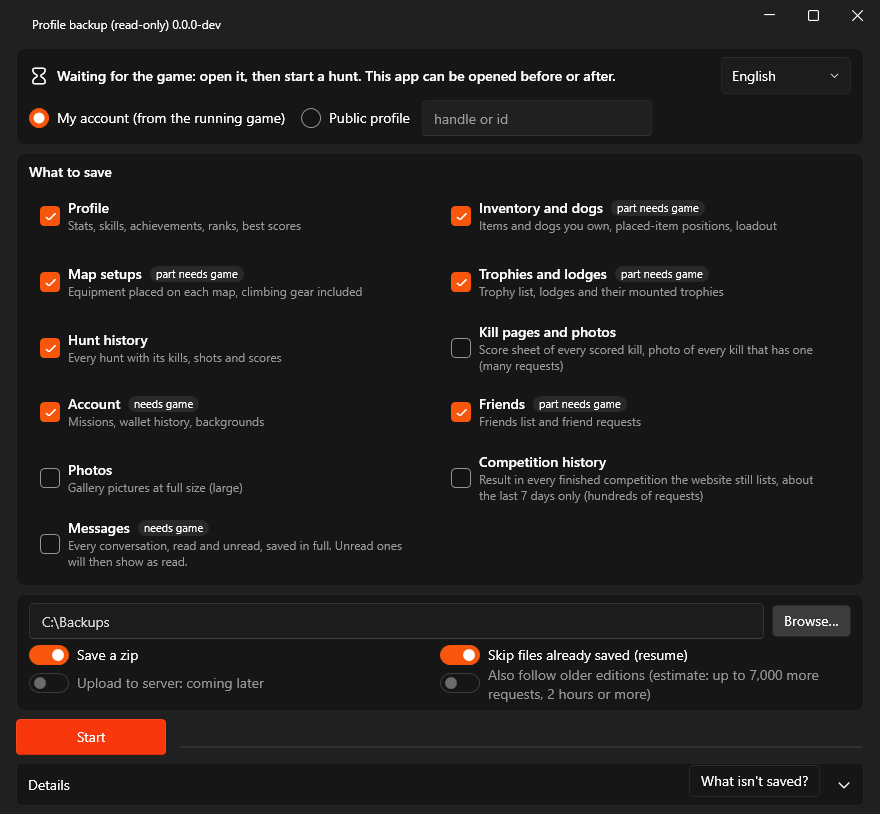
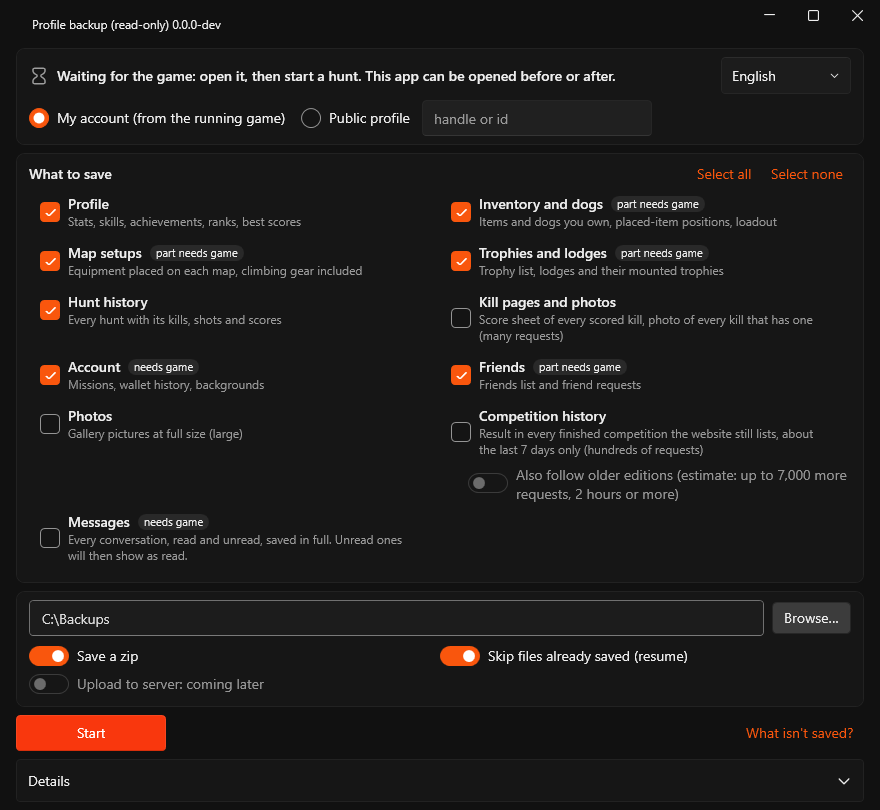
feat(backup): select all/none, aligned group rows, small-screen layout
- Select all / Select none beside "What to save" (enabled rows only).
- Group rows in an aligned two-column grid; disabled rows dim and show
  why; the older-editions switch sits under Competition history.
- The log takes the space left in a short window, the group list keeps
  a minimum height and scrolls; the window never exceeds the work area.
- Status banner shows the run state with a coloured icon; progress bar
  hidden until a run; full bar after any run that finished.
- One Tab stop for the source radios, Enter starts (never cancels),
  taller toggles, named title-bar buttons; PerMonitorV2 manifest.
- Docs and screenshot updated.

diff --git a/tools/backup/MainWindow.xaml b/tools/backup/MainWindow.xaml
@@ -35,7 +35,7 @@
 
         <Grid x:Name="Body" Grid.Row="1" Margin="16,0,16,8">
             <Grid.RowDefinitions>
-                <RowDefinition Height="*" MinHeight="420" /> <!-- status card, two group rows and the folder card: the list scrolls below that, it never collapses -->
+                <RowDefinition Height="*" MinHeight="320" /> <!-- status card, about one group row and the folder card: the list scrolls below that, it never collapses -->
                 <RowDefinition Height="Auto" />
                 <RowDefinition Height="Auto" />
                 <RowDefinition Height="Auto" />
@@ -59,11 +59,14 @@
                             </Grid.ColumnDefinitions>
                             <ui:SymbolIcon x:Name="StatusIcon" FontSize="20" Margin="0,0,8,0" VerticalAlignment="Center" />
                             <TextBlock x:Name="StatusText" Grid.Column="1" FontWeight="SemiBold" VerticalAlignment="Center" TextWrapping="Wrap" AutomationProperties.LiveSetting="Polite" />
-                            <ComboBox x:Name="LangBox" Grid.Column="2" MinWidth="130" Margin="12,0,0,0" VerticalAlignment="Top" />
+                            <ComboBox x:Name="LangBox" Grid.Column="2" MinWidth="130" Margin="12,0,0,0" VerticalAlignment="Center" />
                         </Grid>
                         <WrapPanel>
-                            <RadioButton x:Name="OwnRadio" GroupName="Source" IsChecked="True" MinWidth="0" Margin="0,0,16,0" />
-                            <RadioButton x:Name="PublicRadio" GroupName="Source" MinWidth="0" />
+                            <!-- one Tab stop for the pair; the arrow keys move and select -->
+                            <StackPanel Orientation="Horizontal" KeyboardNavigation.TabNavigation="Once" KeyboardNavigation.DirectionalNavigation="Cycle">
+                                <RadioButton x:Name="OwnRadio" GroupName="Source" IsChecked="True" MinWidth="0" Margin="0,0,16,0" />
+                                <RadioButton x:Name="PublicRadio" GroupName="Source" MinWidth="0" />
+                            </StackPanel>
                             <ui:TextBox x:Name="Who" Width="230" Margin="12,0,0,0" IsEnabled="False" />
                         </WrapPanel>
                     </StackPanel>
@@ -75,9 +78,27 @@
                             <RowDefinition Height="Auto" />
                             <RowDefinition Height="*" />
                         </Grid.RowDefinitions>
-                        <TextBlock x:Name="GroupsTitle" FontWeight="SemiBold" Margin="0,0,0,4" />
+                        <Grid Margin="0,0,0,4">
+                            <Grid.ColumnDefinitions>
+                                <ColumnDefinition Width="*" />
+                                <ColumnDefinition Width="Auto" />
+                                <ColumnDefinition Width="Auto" />
+                            </Grid.ColumnDefinitions>
+                            <TextBlock x:Name="GroupsTitle" FontWeight="SemiBold" VerticalAlignment="Center" />
+                            <ui:HyperlinkButton x:Name="SelectAll" Grid.Column="1" Padding="8,2" />
+                            <ui:HyperlinkButton x:Name="SelectNone" Grid.Column="2" Margin="4,0,0,0" Padding="8,2" />
+                        </Grid>
                         <ScrollViewer Grid.Row="1" VerticalScrollBarVisibility="Auto">
-                            <UniformGrid x:Name="Groups" Columns="2" />
+                            <Grid x:Name="Groups">
+                                <Grid.ColumnDefinitions>
+                                    <ColumnDefinition Width="*" />
+                                    <ColumnDefinition Width="*" />
+                                </Grid.ColumnDefinitions>
+                                <!-- the history row's cell: BuildRows puts the checkbox above this switch, which only means something while that group is ticked -->
+                                <StackPanel x:Name="HistoryCell">
+                                    <ui:ToggleSwitch x:Name="Older" Margin="28,0,0,4" MinHeight="28" IsChecked="False" IsEnabled="False" />
+                                </StackPanel>
+                            </Grid>
                         </ScrollViewer>
                     </Grid>
                 </Border>
@@ -101,10 +122,9 @@
                             <ui:TextBox x:Name="OutDir" />
                             <ui:Button x:Name="Browse" Grid.Column="1" Margin="8,0,0,0" />
                         </Grid>
-                        <ui:ToggleSwitch x:Name="Zip" Grid.Row="1" IsChecked="True" />
-                        <ui:ToggleSwitch x:Name="Skip" Grid.Row="1" Grid.Column="1" IsChecked="True" />
-                        <ui:ToggleSwitch x:Name="Upload" Grid.Row="2" IsEnabled="False" />
-                        <ui:ToggleSwitch x:Name="Older" Grid.Row="2" Grid.Column="1" IsChecked="False" IsEnabled="False" />
+                        <ui:ToggleSwitch x:Name="Zip" Grid.Row="1" IsChecked="True" MinHeight="28" />
+                        <ui:ToggleSwitch x:Name="Skip" Grid.Row="1" Grid.Column="1" IsChecked="True" MinHeight="28" />
+                        <ui:ToggleSwitch x:Name="Upload" Grid.Row="2" IsEnabled="False" MinHeight="28" />
                     </Grid>
                 </Border>
             </Grid>
@@ -113,12 +133,14 @@
                 <Grid.ColumnDefinitions>
                     <ColumnDefinition Width="Auto" />
                     <ColumnDefinition Width="*" />
+                    <ColumnDefinition Width="Auto" />
                 </Grid.ColumnDefinitions>
-                <ui:Button x:Name="Start" Appearance="Primary" Width="150" Height="36" HorizontalContentAlignment="Center" FocusVisualStyle="{StaticResource StartFocus}" />
-                <StackPanel Grid.Column="1" Margin="12,0,0,0" VerticalAlignment="Center">
-                    <TextBlock x:Name="ProgressText" FontSize="12" Margin="0,0,0,4" Foreground="{DynamicResource TextFillColorSecondaryBrush}" AutomationProperties.LiveSetting="Polite" />
-                    <ProgressBar x:Name="Bar" Minimum="0" Maximum="1" Value="0" Height="4" />
+                <ui:Button x:Name="Start" Appearance="Primary" Width="150" Height="36" HorizontalContentAlignment="Center" IsDefault="True" FocusVisualStyle="{StaticResource StartFocus}" />
+                <StackPanel Grid.Column="1" Margin="12,0,12,0" VerticalAlignment="Center">
+                    <TextBlock x:Name="ProgressText" Margin="0,0,0,4" Foreground="{DynamicResource TextFillColorSecondaryBrush}" AutomationProperties.LiveSetting="Polite" />
+                    <ProgressBar x:Name="Bar" Minimum="0" Maximum="1" Value="0" Height="4" Visibility="Hidden" />
                 </StackPanel>
+                <ui:HyperlinkButton x:Name="NotCoveredLink" Grid.Column="2" VerticalAlignment="Center" />
             </Grid>
 
             <Grid Grid.Row="2">
@@ -135,7 +157,6 @@
                     <TextBox x:Name="LogBox" Height="155" IsReadOnly="True" AcceptsReturn="True" TextWrapping="NoWrap" FontFamily="Consolas" FontSize="12"
                              VerticalScrollBarVisibility="Auto" HorizontalScrollBarVisibility="Auto" VerticalContentAlignment="Top" />
                 </Expander>
-                <ui:Button x:Name="NotCoveredLink" Appearance="Transparent" HorizontalAlignment="Right" VerticalAlignment="Top" Margin="0,2,44,0" />
             </Grid>
         </Grid>
     </Grid>

diff --git a/tools/backup/MainWindow.xaml.cs b/tools/backup/MainWindow.xaml.cs
@@ -29,7 +29,6 @@ public partial class MainWindow : FluentWindow
     string lastStatus = "", resultPath = "";
     Func<(string Title, string Msg)>? resultText; // so the result bar can be worded again when the language changes
     bool logDirty;
-    double grownBy;
     volatile int doneNow, totalNow;
     readonly Queue<(double Secs, int Done)> pace = new(); // progress samples of the last minute and a half: the remaining time follows the pace now, not the average since the start
 
@@ -38,6 +37,8 @@ public partial class MainWindow : FluentWindow
         langPath = Path.Combine(Path.GetDirectoryName(keyPath)!, "language.txt");
         Loc.Init(langPath);
         InitializeComponent();
+        var area = SystemParameters.WorkArea; // a small screen or a high scale factor: the window never asks for more than the work area
+        (MinWidth, MinHeight, Width, Height) = (Math.Min(MinWidth, area.Width), Math.Min(MinHeight, area.Height), Math.Min(Width, area.Width), Math.Min(Height, area.Height));
         OutDir.Text = Path.Combine(Environment.GetFolderPath(Environment.SpecialFolder.MyDocuments), "game-backup");
         remembered = [.. Engine.Groups.Select(g => g.On)];
         try { cfg = Settings.Load(); watcher = new(cfg.ClientExe); }
@@ -54,6 +55,7 @@ public partial class MainWindow : FluentWindow
             ApplyLanguage();
             FitHeight();
         };
+        foreach (var r in new[] { OwnRadio, PublicRadio }) r.GotKeyboardFocus += (s, _) => ((RadioButton)s).IsChecked = true; // arrow keys move and select; Tab reaches only the checked one
         OwnRadio.Checked += (_, _) => ApplyMode();
         PublicRadio.Checked += (_, _) => ApplyMode();
         Browse.Click += (_, _) =>
@@ -64,27 +66,63 @@ public partial class MainWindow : FluentWindow
         Start.Click += OnStart;
         OpenBtn.Click += (_, _) => OpenResult();
         NotCoveredLink.Click += async (_, _) => await ShowNotCovered();
-        Details.Expanded += (_, _) => { GrowFor(true); RenderLog(); };
-        Details.Collapsed += (_, _) => GrowFor(false);
+        SelectAll.Click += (_, _) => SelectGroups(true);
+        SelectNone.Click += (_, _) => SelectGroups(false);
+        Details.Expanded += (_, _) => { RenderLog(); Dispatcher.BeginInvoke(FitHeight, DispatcherPriority.Background); }; // the Expander shows or hides its content after the event
+        Details.SizeChanged += (_, e) => { if (IsLoaded && !Details.IsExpanded && e.HeightChanged) Dispatcher.BeginInvoke(FitHeight, DispatcherPriority.Background); }; // it hides the log after the Collapsed event, when its height drops
+        LayoutUpdated += (_, _) => FitLog();
+        StateChanged += (_, _) => NameTitleButtons();
         watchTimer.Tick += (_, _) => Tick();
         runTimer.Tick += (_, _) => { FlushLog(); ShowProgress(); };
         watchTimer.Start();
         ApplyLanguage();
         ApplyMode();
         ContentRendered += (_, _) => SetResourceReference(BackgroundProperty, "ApplicationBackgroundBrush"); // FluentWindow resets it to its own dark grey when it applies the backdrop
-        Loaded += (_, _) => FitHeight();
+        Loaded += (_, _) => { NameTitleButtons(); FitHeight(); };
         Closed += (_, _) => { watchTimer.Stop(); runTimer.Stop(); cts?.Cancel(); };
     }
 
-    /// <summary>Longer languages need taller cards, and a result bar takes room too: the window is as tall as its content (never taller than the screen). The log, when open, keeps the room GrowFor gave it.</summary>
+    /// <summary>Longer languages need taller cards, and a result bar and the open log take room too: the window is as tall as its content (never taller than the screen). The log asks for its full height here; FitLog takes back what a small screen cannot give.</summary>
     void FitHeight()
     {
         UpdateLayout(); // settle pending changes first: the manual Measure below left them half-measured (Start kept the width of "Cancelling…" and its label sat off-centre)
         var chrome = ActualHeight - Body.ActualHeight;
+        LogBox.Height = LogHeight;
         Body.Measure(new Size(Body.ActualWidth, double.PositiveInfinity));
         var area = SystemParameters.WorkArea;
-        Height = Math.Min(Math.Max(MinHeight, chrome + Body.DesiredSize.Height + grownBy), area.Height);
+        Height = Math.Min(Math.Max(MinHeight, chrome + Body.DesiredSize.Height), area.Height);
         Top = Math.Max(area.Top, Math.Min(Top, area.Bottom - Height));
+    }
+
+    const double LogHeight = 155, LogMin = 66; // the log is 155 tall when there is room, three lines at least
+
+    /// <summary>The log is the one thing that gives way when the window is short: it takes what is left below the cards, never less than three lines, and never more than LogHeight. The group list only scrolls.</summary>
+    void FitLog()
+    {
+        if (!Details.IsExpanded || Details.ActualHeight == 0) return;
+        var rows = Body.RowDefinitions;
+        // the window's row, not Body: an arranged Body never gets smaller than its content
+        var room = ((Grid)Body.Parent).RowDefinitions[1].ActualHeight - Body.Margin.Top - Body.Margin.Bottom - rows[0].MinHeight - rows[1].ActualHeight - rows[2].ActualHeight - rows[3].ActualHeight - (rows[4].ActualHeight - LogBox.ActualHeight);
+        var want = Math.Clamp(Math.Floor(room), LogMin, LogHeight);
+        if (Math.Abs(LogBox.Height - want) >= 1) LogBox.Height = want;
+    }
+
+    /// <summary>Only changes enabled rows: in Public mode the token-only groups stay off. The older-editions switch follows through SyncOlder.</summary>
+    void SelectGroups(bool on)
+    {
+        foreach (var b in boxes!) if (b.IsEnabled) b.IsChecked = on;
+    }
+
+    /// <summary>The title bar's own buttons have no names for a screen reader; they come from the resources, so they follow the language (and Maximize turns into Restore).</summary>
+    void NameTitleButtons()
+    {
+        foreach (var b in Descendants<TitleBarButton>(TitleBarMain))
+            Named(b, b.ButtonType switch
+            {
+                TitleBarButtonType.Minimize => "Win_Minimize",
+                TitleBarButtonType.Close => "Win_Close",
+                _ => WindowState == WindowState.Maximized ? "Win_Restore" : "Win_Maximize",
+            });
     }
 
     // ---------- language ----------
@@ -115,6 +153,9 @@ public partial class MainWindow : FluentWindow
         Details.Header = Loc.S("Details");
         Named(LogBox, "Log_Name");
         NotCoveredLink.Content = Loc.S("NotCovered_Link");
+        SelectAll.Content = Loc.S("Groups_All");
+        SelectNone.Content = Loc.S("Groups_None");
+        NameTitleButtons();
         BuildRows();
         if (cfg == null) // the settings error is worded in the language too
             try { Settings.Load(); } catch (Exception e) when (e is InvalidOperationException or IOException or System.Text.Json.JsonException) { cfgError = e.Message; }
@@ -135,11 +176,18 @@ public partial class MainWindow : FluentWindow
         var old = boxes;
         boxes = [.. Engine.Groups.Select(Row)];
         Groups.Children.Clear();
+        Groups.RowDefinitions.Clear();
+        HistoryCell.Children.Clear();
         for (int i = 0; i < boxes.Length; i++)
         {
             if (old != null) (boxes[i].IsChecked, boxes[i].IsEnabled) = (old[i].IsChecked, old[i].IsEnabled);
             Describe(i);
-            Groups.Children.Add(boxes[i]);
+            UIElement cell = boxes[i];
+            if (i == HistoryAt) { HistoryCell.Children.Add(boxes[i]); HistoryCell.Children.Add(Older); cell = HistoryCell; } // the older-editions switch sits right under the group it depends on
+            if (i % 2 == 0) Groups.RowDefinitions.Add(new RowDefinition { Height = GridLength.Auto }); // row pairs: both cells start at the same top
+            Grid.SetRow(cell, i / 2);
+            Grid.SetColumn(cell, i % 2);
+            Groups.Children.Add(cell);
         }
         boxes[HistoryAt].Checked += (_, _) => SyncOlder(); // not Click: a keyboard, screen-reader or code change of the tick counts too
         boxes[HistoryAt].Unchecked += (_, _) => SyncOlder();
@@ -177,7 +225,10 @@ public partial class MainWindow : FluentWindow
         var desc = new TextBlock { Text = descText, FontSize = 12, TextWrapping = TextWrapping.Wrap };
         desc.SetResourceReference(TextBlock.ForegroundProperty, "TextFillColorSecondaryBrush");
         text.Children.Add(desc);
-        var box = new QuietCheckBox { Content = text, IsChecked = g.On, MinWidth = 0, Margin = new Thickness(0, 0, 8, 2) };
+        var note = new TextBlock { FontSize = 12, FontStyle = FontStyles.Italic, TextWrapping = TextWrapping.Wrap, Margin = new Thickness(0, 2, 0, 0), Visibility = Visibility.Collapsed }; // why the row is off, filled by Describe
+        note.SetResourceReference(TextBlock.ForegroundProperty, "TextFillColorSecondaryBrush");
+        text.Children.Add(note);
+        var box = new QuietCheckBox { Content = text, IsChecked = g.On, MinWidth = 0, VerticalAlignment = VerticalAlignment.Top, Margin = new Thickness(0, 0, 8, 2) };
         System.Windows.Automation.AutomationProperties.SetName(box, tagText.Length > 0 ? $"{label}, {tagText}" : label);
         ToolTipService.SetShowOnDisabled(box, true);
         return box;
@@ -195,12 +246,16 @@ public partial class MainWindow : FluentWindow
         }
     }
 
-    /// <summary>Tooltip and screen-reader help of row i: the description, and why the row is off in Public mode.</summary>
+    /// <summary>Tooltip, visible note and screen-reader help of row i: the description, and why the row is off in Public mode (the row's own texts dim, the note stays readable).</summary>
     void Describe(int i)
     {
         var box = boxes![i];
+        var text = (StackPanel)box.Content;
         var why = box.IsEnabled ? null : Loc.S("Tip_Public");
         box.ToolTip = why;
+        text.Children[0].Opacity = text.Children[1].Opacity = why == null ? 1 : 0.5;
+        var note = (TextBlock)text.Children[2];
+        (note.Text, note.Visibility) = (why ?? "", why == null ? Visibility.Collapsed : Visibility.Visible);
         System.Windows.Automation.AutomationProperties.SetHelpText(box, why == null ? Loc.S("GroupDesc_" + Engine.Groups[i].Key) : $"{Loc.S("GroupDesc_" + Engine.Groups[i].Key)}. {why}");
     }
 
@@ -227,28 +282,29 @@ public partial class MainWindow : FluentWindow
             boxes[i].IsChecked = own ? remembered[i] : false;
             Describe(i);
         }
+        if (IsLoaded) FitHeight(); // the notes of the disabled rows change their height
     }
 
     // ---------- watcher ----------
 
     void Tick()
     {
-        string text; SymbolRegular icon;
-        if (watcher == null) (text, icon) = (cfgError, SymbolRegular.ErrorCircle24);
+        string text, tone = "SystemFillColorSolidNeutralBrush"; SymbolRegular icon; // icon and words say the state; the colour only backs them up
+        if (watcher == null) (text, icon, tone) = (cfgError, SymbolRegular.ErrorCircle24, "SystemFillColorCriticalBrush");
         else
         {
             if (watcher.Scan()) Log($"game session found {watcher.At:HH:mm:ss}"); // also in public mode: it is ready when My account is chosen
-            if (PublicRadio.IsChecked == true) (text, icon) = (Loc.S("Status_Public"), SymbolRegular.Person24);
-            else
-                (text, icon) = watcher.Token == null
-                    ? (Loc.S(watcher.GameSeen ? "Status_NoHunt" : "Status_Waiting"), SymbolRegular.Hourglass24)
-                    : watcher.Stale ? (Loc.S("Status_Stale"), SymbolRegular.Warning24)
-                    : (Loc.F("Status_Found", watcher.At.ToString("HH:mm")), SymbolRegular.CheckmarkCircle24);
+            if (cts != null) (text, icon) = (Loc.S("Status_Running"), SymbolRegular.ArrowSync24);
+            else if (PublicRadio.IsChecked == true) (text, icon) = (Loc.S("Status_Public"), SymbolRegular.Person24);
+            else if (watcher.Token == null) (text, icon) = (Loc.S(watcher.GameSeen ? "Status_NoHunt" : "Status_Waiting"), SymbolRegular.Hourglass24);
+            else if (watcher.Stale) (text, icon, tone) = (Loc.S("Status_Stale"), SymbolRegular.Warning24, "SystemFillColorCautionBrush");
+            else (text, icon, tone) = (Loc.F("Status_Found", watcher.At.ToString("HH:mm")), SymbolRegular.CheckmarkCircle24, "SystemFillColorSuccessBrush");
         }
         if (text == lastStatus) return; // nothing changed: no layout work
         lastStatus = text;
         Announce(StatusText, text);
         StatusIcon.Symbol = icon;
+        StatusIcon.SetResourceReference(Control.ForegroundProperty, tone);
     }
 
     // ---------- run ----------
@@ -266,11 +322,15 @@ public partial class MainWindow : FluentWindow
 
         cts = new();
         Start.Appearance = ControlAppearance.Secondary; // Cancel is not the primary action
+        Start.IsDefault = false; // Enter must never cancel a run
+        Bar.Visibility = Visibility.Visible;
         Result.IsOpen = false;
         OpenBtn.Visibility = Visibility.Collapsed;
         Inputs.IsEnabled = false;
         Start.Content = Loc.S("Cancel");
         Bar.IsIndeterminate = true;
+        lastStatus = "";
+        Tick();
         ProgressText.Text = Loc.S("Progress_Starting");
         (doneNow, totalNow) = (0, 0);
         pace.Clear();
@@ -283,6 +343,7 @@ public partial class MainWindow : FluentWindow
         bool resume = Skip.IsChecked == true, zip = Zip.IsChecked == true;
         var ct = cts.Token;
         InfoBarSeverity sev; Func<(string Title, string Msg)> text; string? path = null;
+        bool done = false; // the run came back whole (with or without gaps): full bar; cancelled, stopped or failed: empty
         try
         {
             path = await Task.Run(() => run.Run(outDir, who, own ? () => watcher!.Token : null, keys, resume, zip, ct));
@@ -298,6 +359,7 @@ public partial class MainWindow : FluentWindow
                 + (killsOff ? " " + Loc.S("Msg_KillsOff") : "")
                 + (opened > 0 ? " " + Loc.F("Msg_MessagesOpened", opened) : "")
                 + (setupItems is { } n ? " " + (setupCheck ? Loc.F("Msg_SetupsCheck", n, setupMaps) : n == 0 ? Loc.S("Msg_SetupsNone") : Loc.F("Msg_Setups", n, setupMaps)) : ""));
+            done = true;
         }
         catch (HostSilentException ex)
         {
@@ -330,9 +392,11 @@ public partial class MainWindow : FluentWindow
         Start.IsEnabled = true;
         Start.Content = Loc.S("Start");
         Start.Appearance = ControlAppearance.Primary;
+        Start.IsDefault = true;
         Bar.IsIndeterminate = false;
         ProgressText.Text = "";
-        Bar.Value = sev == InfoBarSeverity.Success ? Bar.Maximum : 0; // a full bar only for a finished run
+        Bar.Value = done ? Bar.Maximum : 0;
+        Bar.Visibility = done ? Visibility.Visible : Visibility.Hidden; // an empty bar would look like a stray line
         Show(sev, text, path);
         (OpenBtn.Visibility == Visibility.Visible ? OpenBtn : Start).Focus(); // the focused Cancel button was disabled and focus fell to the window
         lastStatus = "";
@@ -427,21 +491,13 @@ public partial class MainWindow : FluentWindow
         logDirty = false;
     }
 
-    /// <summary>The log area is the window's last row: opening Details makes the window taller (within the screen) instead of squeezing the cards.</summary>
-    void GrowFor(bool open)
+    static IEnumerable<T> Descendants<T>(DependencyObject o) where T : DependencyObject
     {
-        if (open)
+        for (int i = 0; i < System.Windows.Media.VisualTreeHelper.GetChildrenCount(o); i++)
         {
-            var room = SystemParameters.WorkArea.Bottom - Top - Height;
-            var want = Math.Min(180, Math.Max(0, room));
-            if (want < 180) { var up = Math.Min(180 - want, Math.Max(0, Top - SystemParameters.WorkArea.Top)); Top -= up; want += up; }
-            Height += want;
-            grownBy = want;
-        }
-        else
-        {
-            Height = Math.Max(MinHeight, Height - grownBy);
-            grownBy = 0;
+            var c = System.Windows.Media.VisualTreeHelper.GetChild(o, i);
+            if (c is T t) yield return t;
+            foreach (var d in Descendants<T>(c)) yield return d;
         }
     }
 }

diff --git a/docs/backup.md b/docs/backup.md
@@ -73,6 +73,8 @@ The group is off by default and uses public reads, so it works in public-profile
 - **My account**: reads the signed-in player's data using the session of the running game. The app asks the watcher for the current session before every request that needs it, so a game restarted during a long run brings its new session into the run (a "session refused" mark is cleared by it). A JWT that the server refuses (401) is replaced and that request is made once more.
 - **Public profile**: type a handle or id. Only public data is saved; requests that need the game session are logged as "skipped, needs the game" and are not counted as failed.
 
+"Select all" and "Select none" beside "What to save" tick or untick the groups that can be used in the chosen mode; in Public profile mode the groups that need the game stay off. Enter starts a backup; it never cancels a running one.
+
 ## What is not saved
 
 - A picture of the placed equipment (the positions themselves are saved, see "Map setups").
@@ -86,7 +88,7 @@ The group is off by default and uses public reads, so it works in public-profile
 - Data only the game's own load reply carries: achievement earn times, the player's own minigame score when outside the top 30, daily-mission and objective counters, the imperial-units setting, the list of reserve licences. The website has no endpoint for them. None blocks a restore: the saved achievement values, statistics, mission states, trophies and inventory rebuild the profile; these only affect toasts, counters and the unit display.
 - Gift codes, and any endpoint that changes state.
 
-The app shows a short version of this list in its window.
+The app shows a short version of this list in a dialog, behind the "What isn't saved?" link next to Start.
 
 ## Privacy
 
